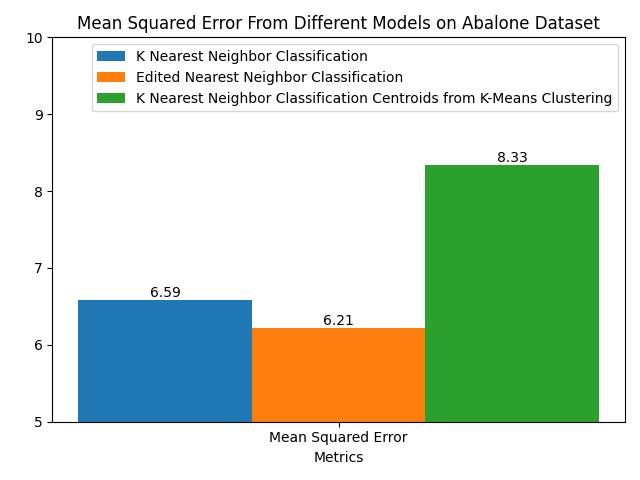
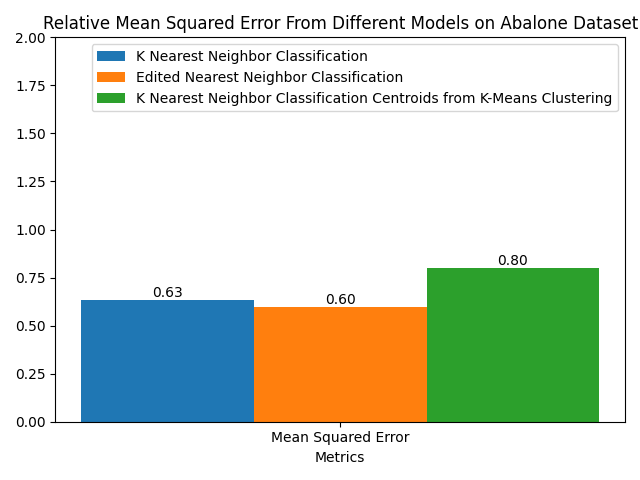
plots

diff --git a/src/BarPlots.py b/src/BarPlots.py
@@ -117,9 +117,9 @@ labels = ["Mean Squared Error"]
 
 # Abalone
 
-nearest_neighbor = [6.589548401155328]
-edited_nearest_neighbor = [6.212742680907067]
-k_means = [8.334849126492824]
+nearest_neighbor = [6.589548401155328 / 10.395265947347061]
+edited_nearest_neighbor = [6.212742680907067 / 10.395265947347061]
+k_means = [8.334849126492824 / 10.395265947347061]
 
 locations = np.arange(len(labels))
 
@@ -132,11 +132,11 @@ ENN = sub.bar(locations, edited_nearest_neighbor, width, label='Edited Nearest N
 KNN_K_means = sub.bar(locations + width, k_means, width, label='K Nearest Neighbor Classification Centroids from K-Means Clustering')
 
 sub.set_xlabel('Metrics')
-sub.set_title('Mean Squared Error From Different Models on Abalone Dataset')
+sub.set_title('Relative Mean Squared Error From Different Models on Abalone Dataset')
 sub.set_xticks(locations)
 sub.set_xticklabels(labels)
 
-sub.set_ylim(5, 10)
+sub.set_ylim(0, 2)
 
 sub.legend()
 
@@ -150,9 +150,9 @@ plt.show()
 
 # Hardware
 
-nearest_neighbor = [3728.5419498900687]
-edited_nearest_neighbor = [31827.131010909234]
-k_means = [4627.8231035897425]
+nearest_neighbor = [3728.5419498900687 / 25866.524705557593]
+edited_nearest_neighbor = [31827.131010909234 / 25866.524705557593]
+k_means = [4627.8231035897425 / 25866.524705557593]
 
 locations = np.arange(len(labels))
 
@@ -165,11 +165,11 @@ ENN = sub.bar(locations, edited_nearest_neighbor, width, label='Edited Nearest N
 KNN_K_means = sub.bar(locations + width, k_means, width, label='K Nearest Neighbor Classification Centroids from K-Means Clustering')
 
 sub.set_xlabel('Metrics')
-sub.set_title('Mean Squared Error From Different Models on Hardware Dataset')
+sub.set_title('Relative Mean Squared Error From Different Models on Hardware Dataset')
 sub.set_xticks(locations)
 sub.set_xticklabels(labels)
 
-sub.set_ylim(3000, 42000)
+sub.set_ylim(0, 2)
 
 sub.legend()
 
@@ -183,9 +183,9 @@ plt.show()
 
 # Forest
 
-nearest_neighbor = [5283.0001691368425]
-edited_nearest_neighbor = [4906.770218163989]
-k_means = [4814.371607523724]
+nearest_neighbor = [5283.0001691368425 / 4052.063224823412]
+edited_nearest_neighbor = [4906.770218163989 / 4052.063224823412]
+k_means = [4814.371607523724 / 4052.063224823412]
 
 locations = np.arange(len(labels))
 
@@ -198,11 +198,11 @@ ENN = sub.bar(locations, edited_nearest_neighbor, width, label='Edited Nearest N
 KNN_K_means = sub.bar(locations + width, k_means, width, label='K Nearest Neighbor Classification Centroids from K-Means Clustering')
 
 sub.set_xlabel('Metrics')
-sub.set_title('Mean Squared Error From Different Models on Forest Fire Dataset')
+sub.set_title('Relative Mean Squared Error From Different Models on Forest Fire Dataset')
 sub.set_xticks(locations)
 sub.set_xticklabels(labels)
 
-sub.set_ylim(4000, 6000)
+sub.set_ylim(0, 2)
 
 sub.legend()
 

diff --git a/src/VideoMain.py b/src/VideoMain.py
@@ -9,6 +9,7 @@ from CrossValidateFunctions import (cross_validate_edited_regression, cross_vali
                                     cross_validate_edited_classification, cross_validate_classification)
 import numpy as np
 
+# Set up Datasets
 abalone = AbaloneSet()
 data = abalone.get_data()
 labels = abalone.get_labels()
@@ -16,21 +17,29 @@ labels = abalone.get_labels()
 # Split the data into 40 stratified folds and use 1 as smaller dataset
 data_folds, label_folds = get_folds_regression(data, labels, 40)
 
+# Take the first stratified fold as your new data
 small_abalone_data = np.array(data_folds[0])
 small_abalone_labels = np.array(label_folds[0])
 
 # Get folds from the smaller dataset
 data_folds, label_folds = get_folds_regression(small_abalone_data, small_abalone_labels, 10)
+
+# Get tune folds
 tune_data, tune_labels, train_data, train_labels = get_tune_folds(data_folds, label_folds)
 
+# Hyperparameters Values
 k_vals = [1, 2, 3, 4, 5, 10, 15]
 p_vals = [1, 2]
 sigma_vals = [.05, .5, 1, 1.5, 2, 5]
 
+# Get new folds based off of train data
 data_folds, label_folds = get_folds_regression(train_data, train_labels, 10)
+
+# Get hyperparameter vals
 k, p, sigma = hyperparameter_tune_knn_regression(data_folds, label_folds, tune_data, tune_labels, k_vals, p_vals,
                                                  sigma_vals)
 
+# Print vals
 print("Optimal hyperparameters")
 print("P: " + str(p) + "      K: " + str(k) + "      Sigma: " + str(sigma))
 

diff --git a/src/testMSE.py b/src/testMSE.py
@@ -1,0 +1,42 @@
+import numpy as np
+
+from Abalone import AbaloneSet
+from ForestFires import ForestFiresSet
+from Hardware import MachineSet
+print("abalone")
+abalone = AbaloneSet()
+data = abalone.get_data()
+labels = abalone.get_labels()
+
+mean_label = np.mean(labels)
+sum_dev = 0.0
+for label in labels:
+    sum_dev += (label - mean_label) ** 2
+
+mean_dev = sum_dev / (len(labels) - 1)
+print(mean_dev)
+print("forest")
+forest = ForestFiresSet()
+data = forest.get_data()
+labels = forest.get_labels()
+
+mean_label = np.mean(labels)
+sum_dev = 0.0
+for label in labels:
+    sum_dev += (label - mean_label) ** 2
+
+mean_dev = sum_dev / (len(labels) - 1)
+print(mean_dev)
+
+print("machine")
+machine = MachineSet()
+data = machine.get_data()
+labels = machine.get_labels()
+
+mean_label = np.mean(labels)
+sum_dev = 0.0
+for label in labels:
+    sum_dev += (label - mean_label) ** 2
+
+mean_dev = sum_dev / (len(labels) - 1)
+print(mean_dev)

diff --git a/src/SoyBeanSet.py b/src/SoyBeanSet.py
@@ -14,6 +14,7 @@ class SoyBeanSet:
         self.data = np.array(self.data)
         np.random.shuffle(self.data)
 
+        # Enumerate classes and replace the string labes
         unique_classes = np.unique(self.data[:, -1])
         numerical_class_labels = {}
         for i, unique_class in enumerate(unique_classes):
@@ -21,6 +22,7 @@ class SoyBeanSet:
 
         for i in range(len(self.data)):
             self.data[i, -1] = numerical_class_labels[self.data[i, -1]]
+
 
         features = self.data[:, :-1]
         labels = self.data[:, -1]
